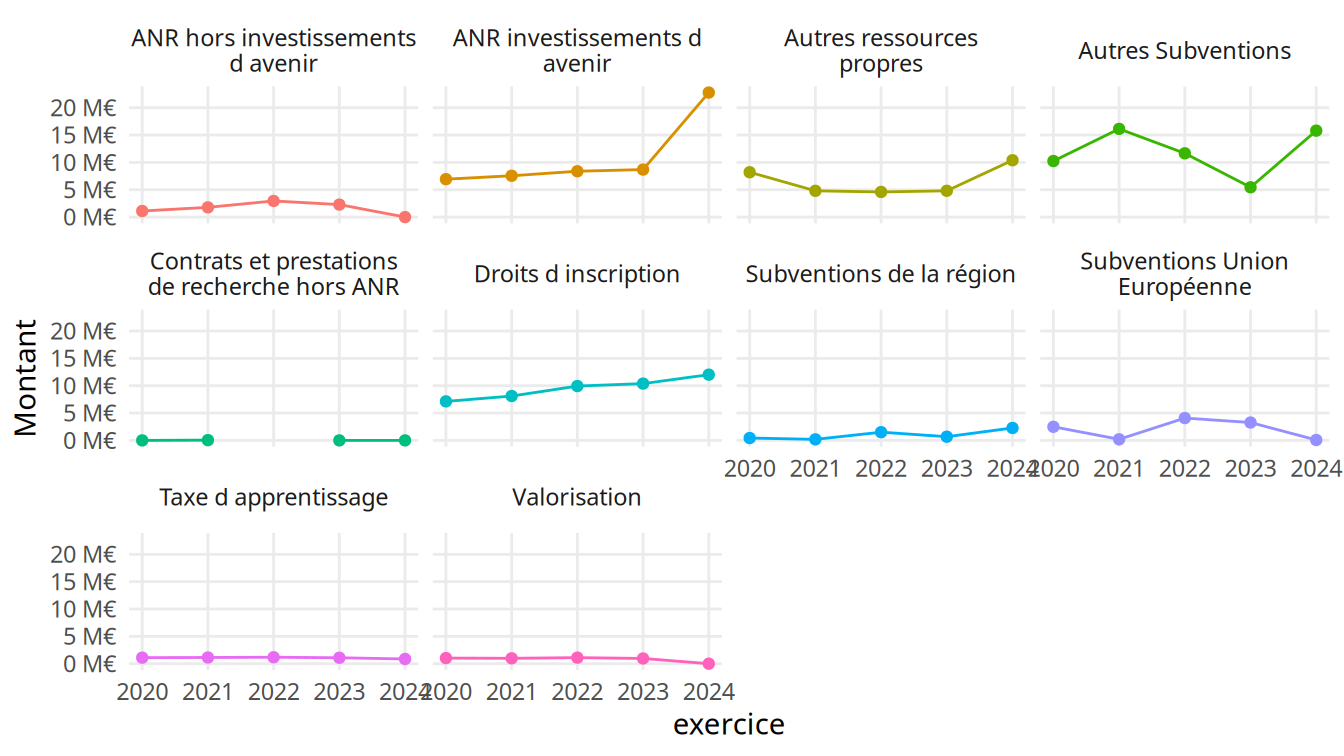
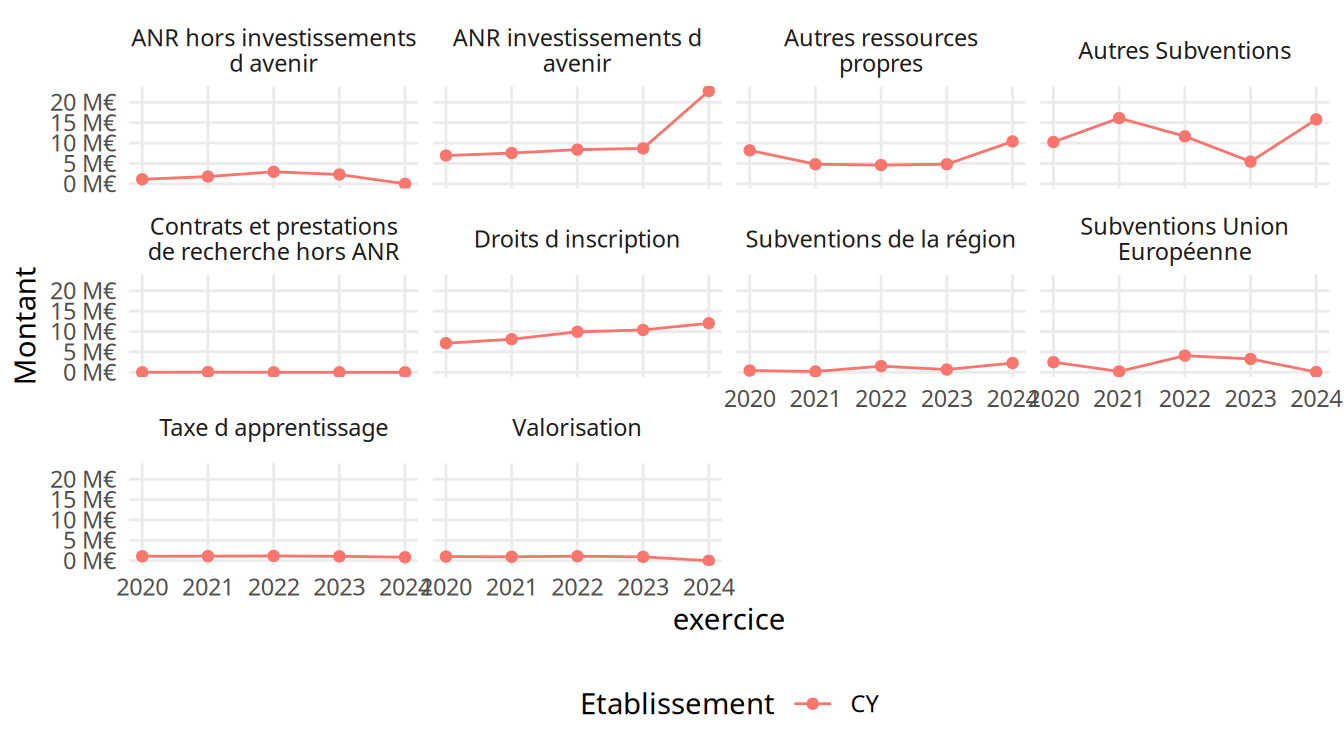
CY

diff --git a/SCSP/CY.md b/SCSP/CY.md
@@ -75,72 +75,113 @@ Données financières CY
 Données financières CY - long
 </summary>
 
-| uai…identifiant | exercice | Acquisitions.d.immobilisations | Besoin.en.fonds.de.roulement | CAF…Produits.encaissables | Charges.externes | Charges.externes…Produits.encaissables | Fonds.de.roulement.net.global | Produits.de.fonctionnement.encaissables | Ressources.propres…Produits.encaissables | rce | vague | Etablissement | commune | academie | region | code.de.la.commune | code.de.l.academie | code.de.la.region | source | id…paysage | CAF…Acquisitions.d.immobilisations | Capacité.d.autofinancement | Charges.de.fonctionnement.décaissables | Charges.de.personnel | Charges.de.personnel…Produits.encaissables | Charges.décaissables…Produits.encaissables | Excédent.Brut.d.Exploitation..EBE. | Fonds.de.roulement.en.jours.de.charges.décaissables | Formation.continue..diplômes.propres.et.VAE | Recettes.propres | Ressources.propres.encaissables | Résultat.net.comptable | Résultat.net.comptable.hors.SIE | Solde.budgétaire | Taux.de.rémunération.des.permanents | Trésorerie | Trésorerie.en.jours.de.charges.décaissables | Indicateur | Montant | Part | PartSCSP |
-|:---|---:|---:|---:|---:|---:|---:|---:|---:|---:|---:|:---|:---|:---|:---|:---|:---|:---|:---|:---|:---|---:|---:|---:|---:|---:|---:|---:|---:|---:|---:|---:|---:|---:|---:|---:|---:|---:|:---|---:|---:|---:|
-| 0952259P | 2024 | 25328992 | -42305709 | -0.4687971 | NA | NA | 9718017 | 221178400 | 35.81494 | 2019 | Vague E | CY Cergy Paris Université | Cergy | Versailles | Île-de-France | 95127 | A25 | R11 | Budget | RS4WF | -4.093641 | -1036878 | 222215278 | 175759517 | 79.46505 | 100.46880 | NA | 15.74368 | 24714518 | 88914648 | 79214905 | -5525166 | -5525166 | -16666127 | NA | 52023726 | 84.28107 | ANR hors investissements d avenir | 0 | 0.0000000 | 0.0000000 |
-| 0952259P | 2024 | 25328992 | -42305709 | -0.4687971 | NA | NA | 9718017 | 221178400 | 35.81494 | 2019 | Vague E | CY Cergy Paris Université | Cergy | Versailles | Île-de-France | 95127 | A25 | R11 | Budget | RS4WF | -4.093641 | -1036878 | 222215278 | 175759517 | 79.46505 | 100.46880 | NA | 15.74368 | 24714518 | 88914648 | 79214905 | -5525166 | -5525166 | -16666127 | NA | 52023726 | 84.28107 | ANR investissements d avenir | 22768839 | 0.1029433 | 0.1603852 |
-| 0952259P | 2024 | 25328992 | -42305709 | -0.4687971 | NA | NA | 9718017 | 221178400 | 35.81494 | 2019 | Vague E | CY Cergy Paris Université | Cergy | Versailles | Île-de-France | 95127 | A25 | R11 | Budget | RS4WF | -4.093641 | -1036878 | 222215278 | 175759517 | 79.46505 | 100.46880 | NA | 15.74368 | 24714518 | 88914648 | 79214905 | -5525166 | -5525166 | -16666127 | NA | 52023726 | 84.28107 | Autres ressources propres | 10393150 | 0.0469899 | 0.0732100 |
-| 0952259P | 2024 | 25328992 | -42305709 | -0.4687971 | NA | NA | 9718017 | 221178400 | 35.81494 | 2019 | Vague E | CY Cergy Paris Université | Cergy | Versailles | Île-de-France | 95127 | A25 | R11 | Budget | RS4WF | -4.093641 | -1036878 | 222215278 | 175759517 | 79.46505 | 100.46880 | NA | 15.74368 | 24714518 | 88914648 | 79214905 | -5525166 | -5525166 | -16666127 | NA | 52023726 | 84.28107 | Autres Subventions | 15804109 | 0.0714541 | 0.1113252 |
-| 0952259P | 2024 | 25328992 | -42305709 | -0.4687971 | NA | NA | 9718017 | 221178400 | 35.81494 | 2019 | Vague E | CY Cergy Paris Université | Cergy | Versailles | Île-de-France | 95127 | A25 | R11 | Budget | RS4WF | -4.093641 | -1036878 | 222215278 | 175759517 | 79.46505 | 100.46880 | NA | 15.74368 | 24714518 | 88914648 | 79214905 | -5525166 | -5525166 | -16666127 | NA | 52023726 | 84.28107 | Contrats et prestations de recherche hors ANR | 0 | 0.0000000 | 0.0000000 |
-| 0952259P | 2024 | 25328992 | -42305709 | -0.4687971 | NA | NA | 9718017 | 221178400 | 35.81494 | 2019 | Vague E | CY Cergy Paris Université | Cergy | Versailles | Île-de-France | 95127 | A25 | R11 | Budget | RS4WF | -4.093641 | -1036878 | 222215278 | 175759517 | 79.46505 | 100.46880 | NA | 15.74368 | 24714518 | 88914648 | 79214905 | -5525166 | -5525166 | -16666127 | NA | 52023726 | 84.28107 | Droits d inscription | 12020419 | 0.0543472 | 0.0846726 |
-| 0952259P | 2024 | 25328992 | -42305709 | -0.4687971 | NA | NA | 9718017 | 221178400 | 35.81494 | 2019 | Vague E | CY Cergy Paris Université | Cergy | Versailles | Île-de-France | 95127 | A25 | R11 | Budget | RS4WF | -4.093641 | -1036878 | 222215278 | 175759517 | 79.46505 | 100.46880 | NA | 15.74368 | 24714518 | 88914648 | 79214905 | -5525166 | -5525166 | -16666127 | NA | 52023726 | 84.28107 | Taxe d apprentissage | 865500 | 0.0039131 | 0.0060966 |
-| 0952259P | 2024 | 25328992 | -42305709 | -0.4687971 | NA | NA | 9718017 | 221178400 | 35.81494 | 2019 | Vague E | CY Cergy Paris Université | Cergy | Versailles | Île-de-France | 95127 | A25 | R11 | Budget | RS4WF | -4.093641 | -1036878 | 222215278 | 175759517 | 79.46505 | 100.46880 | NA | 15.74368 | 24714518 | 88914648 | 79214905 | -5525166 | -5525166 | -16666127 | NA | 52023726 | 84.28107 | Valorisation | 0 | 0.0000000 | 0.0000000 |
-| 0952259P | 2024 | 25328992 | -42305709 | -0.4687971 | NA | NA | 9718017 | 221178400 | 35.81494 | 2019 | Vague E | CY Cergy Paris Université | Cergy | Versailles | Île-de-France | 95127 | A25 | R11 | Budget | RS4WF | -4.093641 | -1036878 | 222215278 | 175759517 | 79.46505 | 100.46880 | NA | 15.74368 | 24714518 | 88914648 | 79214905 | -5525166 | -5525166 | -16666127 | NA | 52023726 | 84.28107 | Subventions Union Européenne | 74583 | 0.0003372 | 0.0005254 |
-| 0952259P | 2024 | 25328992 | -42305709 | -0.4687971 | NA | NA | 9718017 | 221178400 | 35.81494 | 2019 | Vague E | CY Cergy Paris Université | Cergy | Versailles | Île-de-France | 95127 | A25 | R11 | Budget | RS4WF | -4.093641 | -1036878 | 222215278 | 175759517 | 79.46505 | 100.46880 | NA | 15.74368 | 24714518 | 88914648 | 79214905 | -5525166 | -5525166 | -16666127 | NA | 52023726 | 84.28107 | Subventions de la région | 2273530 | 0.0102792 | 0.0160149 |
-| 0952259P | 2021 | 21205931 | -43015057 | 3.8946341 | NA | NA | 27440793 | 178194684 | 25.16947 | 2019 | Vague E | CY Cergy Paris Université | Cergy | Versailles | Île-de-France | 95127 | A25 | R11 | Comptes financiers | RS4WF | 32.726839 | 6940031 | 171254653 | 140202899 | 78.67962 | 96.10537 | NA | 57.68419 | 14728461 | 55672895 | 44850653 | 1329060 | 1329060 | -1255354 | 75.71733 | 70455850 | 148.10754 | ANR hors investissements d avenir | 1781876 | 0.0099996 | 0.0133630 |
-| 0952259P | 2021 | 21205931 | -43015057 | 3.8946341 | NA | NA | 27440793 | 178194684 | 25.16947 | 2019 | Vague E | CY Cergy Paris Université | Cergy | Versailles | Île-de-France | 95127 | A25 | R11 | Comptes financiers | RS4WF | 32.726839 | 6940031 | 171254653 | 140202899 | 78.67962 | 96.10537 | NA | 57.68419 | 14728461 | 55672895 | 44850653 | 1329060 | 1329060 | -1255354 | 75.71733 | 70455850 | 148.10754 | ANR investissements d avenir | 7557662 | 0.0424124 | 0.0566779 |
-| 0952259P | 2021 | 21205931 | -43015057 | 3.8946341 | NA | NA | 27440793 | 178194684 | 25.16947 | 2019 | Vague E | CY Cergy Paris Université | Cergy | Versailles | Île-de-France | 95127 | A25 | R11 | Comptes financiers | RS4WF | 32.726839 | 6940031 | 171254653 | 140202899 | 78.67962 | 96.10537 | NA | 57.68419 | 14728461 | 55672895 | 44850653 | 1329060 | 1329060 | -1255354 | 75.71733 | 70455850 | 148.10754 | Autres ressources propres | 4801756 | 0.0269467 | 0.0360103 |
-| 0952259P | 2021 | 21205931 | -43015057 | 3.8946341 | NA | NA | 27440793 | 178194684 | 25.16947 | 2019 | Vague E | CY Cergy Paris Université | Cergy | Versailles | Île-de-France | 95127 | A25 | R11 | Comptes financiers | RS4WF | 32.726839 | 6940031 | 171254653 | 140202899 | 78.67962 | 96.10537 | NA | 57.68419 | 14728461 | 55672895 | 44850653 | 1329060 | 1329060 | -1255354 | 75.71733 | 70455850 | 148.10754 | Autres Subventions | 16127085 | 0.0905026 | 0.1209434 |
-| 0952259P | 2021 | 21205931 | -43015057 | 3.8946341 | NA | NA | 27440793 | 178194684 | 25.16947 | 2019 | Vague E | CY Cergy Paris Université | Cergy | Versailles | Île-de-France | 95127 | A25 | R11 | Comptes financiers | RS4WF | 32.726839 | 6940031 | 171254653 | 140202899 | 78.67962 | 96.10537 | NA | 57.68419 | 14728461 | 55672895 | 44850653 | 1329060 | 1329060 | -1255354 | 75.71733 | 70455850 | 148.10754 | Contrats et prestations de recherche hors ANR | 48389 | 0.0002716 | 0.0003629 |
-| 0952259P | 2021 | 21205931 | -43015057 | 3.8946341 | NA | NA | 27440793 | 178194684 | 25.16947 | 2019 | Vague E | CY Cergy Paris Université | Cergy | Versailles | Île-de-France | 95127 | A25 | R11 | Comptes financiers | RS4WF | 32.726839 | 6940031 | 171254653 | 140202899 | 78.67962 | 96.10537 | NA | 57.68419 | 14728461 | 55672895 | 44850653 | 1329060 | 1329060 | -1255354 | 75.71733 | 70455850 | 148.10754 | Droits d inscription | 8113151 | 0.0455297 | 0.0608438 |
-| 0952259P | 2021 | 21205931 | -43015057 | 3.8946341 | NA | NA | 27440793 | 178194684 | 25.16947 | 2019 | Vague E | CY Cergy Paris Université | Cergy | Versailles | Île-de-France | 95127 | A25 | R11 | Comptes financiers | RS4WF | 32.726839 | 6940031 | 171254653 | 140202899 | 78.67962 | 96.10537 | NA | 57.68419 | 14728461 | 55672895 | 44850653 | 1329060 | 1329060 | -1255354 | 75.71733 | 70455850 | 148.10754 | Taxe d apprentissage | 1135882 | 0.0063744 | 0.0085184 |
-| 0952259P | 2021 | 21205931 | -43015057 | 3.8946341 | NA | NA | 27440793 | 178194684 | 25.16947 | 2019 | Vague E | CY Cergy Paris Université | Cergy | Versailles | Île-de-France | 95127 | A25 | R11 | Comptes financiers | RS4WF | 32.726839 | 6940031 | 171254653 | 140202899 | 78.67962 | 96.10537 | NA | 57.68419 | 14728461 | 55672895 | 44850653 | 1329060 | 1329060 | -1255354 | 75.71733 | 70455850 | 148.10754 | Valorisation | 986033 | 0.0055335 | 0.0073947 |
-| 0952259P | 2021 | 21205931 | -43015057 | 3.8946341 | NA | NA | 27440793 | 178194684 | 25.16947 | 2019 | Vague E | CY Cergy Paris Université | Cergy | Versailles | Île-de-France | 95127 | A25 | R11 | Comptes financiers | RS4WF | 32.726839 | 6940031 | 171254653 | 140202899 | 78.67962 | 96.10537 | NA | 57.68419 | 14728461 | 55672895 | 44850653 | 1329060 | 1329060 | -1255354 | 75.71733 | 70455850 | 148.10754 | Subventions Union Européenne | 202079 | 0.0011340 | 0.0015155 |
-| 0952259P | 2021 | 21205931 | -43015057 | 3.8946341 | NA | NA | 27440793 | 178194684 | 25.16947 | 2019 | Vague E | CY Cergy Paris Université | Cergy | Versailles | Île-de-France | 95127 | A25 | R11 | Comptes financiers | RS4WF | 32.726839 | 6940031 | 171254653 | 140202899 | 78.67962 | 96.10537 | NA | 57.68419 | 14728461 | 55672895 | 44850653 | 1329060 | 1329060 | -1255354 | 75.71733 | 70455850 | 148.10754 | Subventions de la région | 190521 | 0.0010692 | 0.0014288 |
-| 0952259P | 2022 | 319325442 | -46852394 | 5.3554829 | NA | NA | 32166255 | 192251235 | 28.76141 | 2019 | Vague E | CY Cergy Paris Université | Cergy | Versailles | Île-de-France | 95127 | A25 | R11 | Comptes financiers | RS4WF | 3.224291 | 10295982 | 181955254 | 148067783 | 77.01786 | 94.64452 | NA | 63.64121 | 19601700 | 64989539 | 55294159 | 4529596 | 4529596 | 5216814 | 73.67705 | 79018649 | 156.33906 | ANR hors investissements d avenir | 2948238 | 0.0153353 | 0.0215267 |
-| 0952259P | 2022 | 319325442 | -46852394 | 5.3554829 | NA | NA | 32166255 | 192251235 | 28.76141 | 2019 | Vague E | CY Cergy Paris Université | Cergy | Versailles | Île-de-France | 95127 | A25 | R11 | Comptes financiers | RS4WF | 3.224291 | 10295982 | 181955254 | 148067783 | 77.01786 | 94.64452 | NA | 63.64121 | 19601700 | 64989539 | 55294159 | 4529596 | 4529596 | 5216814 | 73.67705 | 79018649 | 156.33906 | ANR investissements d avenir | 8382829 | 0.0436035 | 0.0612077 |
-| 0952259P | 2022 | 319325442 | -46852394 | 5.3554829 | NA | NA | 32166255 | 192251235 | 28.76141 | 2019 | Vague E | CY Cergy Paris Université | Cergy | Versailles | Île-de-France | 95127 | A25 | R11 | Comptes financiers | RS4WF | 3.224291 | 10295982 | 181955254 | 148067783 | 77.01786 | 94.64452 | NA | 63.64121 | 19601700 | 64989539 | 55294159 | 4529596 | 4529596 | 5216814 | 73.67705 | 79018649 | 156.33906 | Autres ressources propres | 4597552 | 0.0239143 | 0.0335693 |
-| 0952259P | 2022 | 319325442 | -46852394 | 5.3554829 | NA | NA | 32166255 | 192251235 | 28.76141 | 2019 | Vague E | CY Cergy Paris Université | Cergy | Versailles | Île-de-France | 95127 | A25 | R11 | Comptes financiers | RS4WF | 3.224291 | 10295982 | 181955254 | 148067783 | 77.01786 | 94.64452 | NA | 63.64121 | 19601700 | 64989539 | 55294159 | 4529596 | 4529596 | 5216814 | 73.67705 | 79018649 | 156.33906 | Autres Subventions | 11654868 | 0.0606231 | 0.0850987 |
-| 0952259P | 2022 | 319325442 | -46852394 | 5.3554829 | NA | NA | 32166255 | 192251235 | 28.76141 | 2019 | Vague E | CY Cergy Paris Université | Cergy | Versailles | Île-de-France | 95127 | A25 | R11 | Comptes financiers | RS4WF | 3.224291 | 10295982 | 181955254 | 148067783 | 77.01786 | 94.64452 | NA | 63.64121 | 19601700 | 64989539 | 55294159 | 4529596 | 4529596 | 5216814 | 73.67705 | 79018649 | 156.33906 | Contrats et prestations de recherche hors ANR | NA | NA | NA |
-| 0952259P | 2022 | 319325442 | -46852394 | 5.3554829 | NA | NA | 32166255 | 192251235 | 28.76141 | 2019 | Vague E | CY Cergy Paris Université | Cergy | Versailles | Île-de-France | 95127 | A25 | R11 | Comptes financiers | RS4WF | 3.224291 | 10295982 | 181955254 | 148067783 | 77.01786 | 94.64452 | NA | 63.64121 | 19601700 | 64989539 | 55294159 | 4529596 | 4529596 | 5216814 | 73.67705 | 79018649 | 156.33906 | Droits d inscription | 9932140 | 0.0516623 | 0.0725201 |
-| 0952259P | 2022 | 319325442 | -46852394 | 5.3554829 | NA | NA | 32166255 | 192251235 | 28.76141 | 2019 | Vague E | CY Cergy Paris Université | Cergy | Versailles | Île-de-France | 95127 | A25 | R11 | Comptes financiers | RS4WF | 3.224291 | 10295982 | 181955254 | 148067783 | 77.01786 | 94.64452 | NA | 63.64121 | 19601700 | 64989539 | 55294159 | 4529596 | 4529596 | 5216814 | 73.67705 | 79018649 | 156.33906 | Taxe d apprentissage | 1180784 | 0.0061419 | 0.0086216 |
-| 0952259P | 2022 | 319325442 | -46852394 | 5.3554829 | NA | NA | 32166255 | 192251235 | 28.76141 | 2019 | Vague E | CY Cergy Paris Université | Cergy | Versailles | Île-de-France | 95127 | A25 | R11 | Comptes financiers | RS4WF | 3.224291 | 10295982 | 181955254 | 148067783 | 77.01786 | 94.64452 | NA | 63.64121 | 19601700 | 64989539 | 55294159 | 4529596 | 4529596 | 5216814 | 73.67705 | 79018649 | 156.33906 | Valorisation | 1108686 | 0.0057669 | 0.0080951 |
-| 0952259P | 2022 | 319325442 | -46852394 | 5.3554829 | NA | NA | 32166255 | 192251235 | 28.76141 | 2019 | Vague E | CY Cergy Paris Université | Cergy | Versailles | Île-de-France | 95127 | A25 | R11 | Comptes financiers | RS4WF | 3.224291 | 10295982 | 181955254 | 148067783 | 77.01786 | 94.64452 | NA | 63.64121 | 19601700 | 64989539 | 55294159 | 4529596 | 4529596 | 5216814 | 73.67705 | 79018649 | 156.33906 | Subventions Union Européenne | 4081568 | 0.0212304 | 0.0298018 |
-| 0952259P | 2022 | 319325442 | -46852394 | 5.3554829 | NA | NA | 32166255 | 192251235 | 28.76141 | 2019 | Vague E | CY Cergy Paris Université | Cergy | Versailles | Île-de-France | 95127 | A25 | R11 | Comptes financiers | RS4WF | 3.224291 | 10295982 | 181955254 | 148067783 | 77.01786 | 94.64452 | NA | 63.64121 | 19601700 | 64989539 | 55294159 | 4529596 | 4529596 | 5216814 | 73.67705 | 79018649 | 156.33906 | Subventions de la région | 1501174 | 0.0078084 | 0.0109609 |
-| 0952259P | 2020 | 16323533 | -40809526 | 5.1681979 | NA | NA | 29799612 | 167601090 | 22.81666 | 2019 | Vague E | CY Cergy Paris Université | Cergy | Versailles | Île-de-France | 95127 | A25 | R11 | Comptes financiers | RS4WF | 53.064223 | 8661956 | 158939134 | 135957661 | 81.11980 | 94.83180 | NA | 67.49666 | 11431218 | 50107382 | 38240976 | 3420935 | 3420935 | 12866727 | 78.20000 | 70609138 | 159.93097 | ANR hors investissements d avenir | 1113510 | 0.0066438 | 0.0086078 |
-| 0952259P | 2020 | 16323533 | -40809526 | 5.1681979 | NA | NA | 29799612 | 167601090 | 22.81666 | 2019 | Vague E | CY Cergy Paris Université | Cergy | Versailles | Île-de-France | 95127 | A25 | R11 | Comptes financiers | RS4WF | 53.064223 | 8661956 | 158939134 | 135957661 | 81.11980 | 94.83180 | NA | 67.49666 | 11431218 | 50107382 | 38240976 | 3420935 | 3420935 | 12866727 | 78.20000 | 70609138 | 159.93097 | ANR investissements d avenir | 6931586 | 0.0413576 | 0.0535836 |
-| 0952259P | 2020 | 16323533 | -40809526 | 5.1681979 | NA | NA | 29799612 | 167601090 | 22.81666 | 2019 | Vague E | CY Cergy Paris Université | Cergy | Versailles | Île-de-France | 95127 | A25 | R11 | Comptes financiers | RS4WF | 53.064223 | 8661956 | 158939134 | 135957661 | 81.11980 | 94.83180 | NA | 67.49666 | 11431218 | 50107382 | 38240976 | 3420935 | 3420935 | 12866727 | 78.20000 | 70609138 | 159.93097 | Autres ressources propres | 8199653 | 0.0489236 | 0.0633863 |
-| 0952259P | 2020 | 16323533 | -40809526 | 5.1681979 | NA | NA | 29799612 | 167601090 | 22.81666 | 2019 | Vague E | CY Cergy Paris Université | Cergy | Versailles | Île-de-France | 95127 | A25 | R11 | Comptes financiers | RS4WF | 53.064223 | 8661956 | 158939134 | 135957661 | 81.11980 | 94.83180 | NA | 67.49666 | 11431218 | 50107382 | 38240976 | 3420935 | 3420935 | 12866727 | 78.20000 | 70609138 | 159.93097 | Autres Subventions | 10248683 | 0.0611493 | 0.0792260 |
-| 0952259P | 2020 | 16323533 | -40809526 | 5.1681979 | NA | NA | 29799612 | 167601090 | 22.81666 | 2019 | Vague E | CY Cergy Paris Université | Cergy | Versailles | Île-de-France | 95127 | A25 | R11 | Comptes financiers | RS4WF | 53.064223 | 8661956 | 158939134 | 135957661 | 81.11980 | 94.83180 | NA | 67.49666 | 11431218 | 50107382 | 38240976 | 3420935 | 3420935 | 12866727 | 78.20000 | 70609138 | 159.93097 | Contrats et prestations de recherche hors ANR | 0 | 0.0000000 | 0.0000000 |
-| 0952259P | 2020 | 16323533 | -40809526 | 5.1681979 | NA | NA | 29799612 | 167601090 | 22.81666 | 2019 | Vague E | CY Cergy Paris Université | Cergy | Versailles | Île-de-France | 95127 | A25 | R11 | Comptes financiers | RS4WF | 53.064223 | 8661956 | 158939134 | 135957661 | 81.11980 | 94.83180 | NA | 67.49666 | 11431218 | 50107382 | 38240976 | 3420935 | 3420935 | 12866727 | 78.20000 | 70609138 | 159.93097 | Droits d inscription | 7130416 | 0.0425440 | 0.0551207 |
-| 0952259P | 2020 | 16323533 | -40809526 | 5.1681979 | NA | NA | 29799612 | 167601090 | 22.81666 | 2019 | Vague E | CY Cergy Paris Université | Cergy | Versailles | Île-de-France | 95127 | A25 | R11 | Comptes financiers | RS4WF | 53.064223 | 8661956 | 158939134 | 135957661 | 81.11980 | 94.83180 | NA | 67.49666 | 11431218 | 50107382 | 38240976 | 3420935 | 3420935 | 12866727 | 78.20000 | 70609138 | 159.93097 | Taxe d apprentissage | 1106878 | 0.0066042 | 0.0085566 |
-| 0952259P | 2020 | 16323533 | -40809526 | 5.1681979 | NA | NA | 29799612 | 167601090 | 22.81666 | 2019 | Vague E | CY Cergy Paris Université | Cergy | Versailles | Île-de-France | 95127 | A25 | R11 | Comptes financiers | RS4WF | 53.064223 | 8661956 | 158939134 | 135957661 | 81.11980 | 94.83180 | NA | 67.49666 | 11431218 | 50107382 | 38240976 | 3420935 | 3420935 | 12866727 | 78.20000 | 70609138 | 159.93097 | Valorisation | 1028704 | 0.0061378 | 0.0079523 |
-| 0952259P | 2020 | 16323533 | -40809526 | 5.1681979 | NA | NA | 29799612 | 167601090 | 22.81666 | 2019 | Vague E | CY Cergy Paris Université | Cergy | Versailles | Île-de-France | 95127 | A25 | R11 | Comptes financiers | RS4WF | 53.064223 | 8661956 | 158939134 | 135957661 | 81.11980 | 94.83180 | NA | 67.49666 | 11431218 | 50107382 | 38240976 | 3420935 | 3420935 | 12866727 | 78.20000 | 70609138 | 159.93097 | Subventions Union Européenne | 2483096 | 0.0148155 | 0.0191952 |
-| 0952259P | 2020 | 16323533 | -40809526 | 5.1681979 | NA | NA | 29799612 | 167601090 | 22.81666 | 2019 | Vague E | CY Cergy Paris Université | Cergy | Versailles | Île-de-France | 95127 | A25 | R11 | Comptes financiers | RS4WF | 53.064223 | 8661956 | 158939134 | 135957661 | 81.11980 | 94.83180 | NA | 67.49666 | 11431218 | 50107382 | 38240976 | 3420935 | 3420935 | 12866727 | 78.20000 | 70609138 | 159.93097 | Subventions de la région | 433638 | 0.0025873 | 0.0033522 |
-| 0952259P | 2023 | 15112571 | -53969016 | 2.4385213 | NA | NA | 29770518 | 202226036 | 28.65298 | 2019 | Vague E | CY Cergy Paris Université | Cergy | Versailles | Île-de-France | 95127 | A25 | R11 | Comptes financiers | RS4WF | 32.630616 | 4931325 | 197294711 | 157501532 | 77.88390 | 97.56148 | NA | 54.32171 | 21338683 | 58944743 | 57943782 | -60235 | -60235 | -4247541 | 71.94045 | 83739534 | 152.79797 | ANR hors investissements d avenir | 2284730 | 0.0112979 | 0.0158351 |
-| 0952259P | 2023 | 15112571 | -53969016 | 2.4385213 | NA | NA | 29770518 | 202226036 | 28.65298 | 2019 | Vague E | CY Cergy Paris Université | Cergy | Versailles | Île-de-France | 95127 | A25 | R11 | Comptes financiers | RS4WF | 32.630616 | 4931325 | 197294711 | 157501532 | 77.88390 | 97.56148 | NA | 54.32171 | 21338683 | 58944743 | 57943782 | -60235 | -60235 | -4247541 | 71.94045 | 83739534 | 152.79797 | ANR investissements d avenir | 8686068 | 0.0429523 | 0.0602019 |
-| 0952259P | 2023 | 15112571 | -53969016 | 2.4385213 | NA | NA | 29770518 | 202226036 | 28.65298 | 2019 | Vague E | CY Cergy Paris Université | Cergy | Versailles | Île-de-France | 95127 | A25 | R11 | Comptes financiers | RS4WF | 32.630616 | 4931325 | 197294711 | 157501532 | 77.88390 | 97.56148 | NA | 54.32171 | 21338683 | 58944743 | 57943782 | -60235 | -60235 | -4247541 | 71.94045 | 83739534 | 152.79797 | Autres ressources propres | 4806595 | 0.0237684 | 0.0333138 |
-| 0952259P | 2023 | 15112571 | -53969016 | 2.4385213 | NA | NA | 29770518 | 202226036 | 28.65298 | 2019 | Vague E | CY Cergy Paris Université | Cergy | Versailles | Île-de-France | 95127 | A25 | R11 | Comptes financiers | RS4WF | 32.630616 | 4931325 | 197294711 | 157501532 | 77.88390 | 97.56148 | NA | 54.32171 | 21338683 | 58944743 | 57943782 | -60235 | -60235 | -4247541 | 71.94045 | 83739534 | 152.79797 | Autres Subventions | 5453246 | 0.0269661 | 0.0377957 |
-| 0952259P | 2023 | 15112571 | -53969016 | 2.4385213 | NA | NA | 29770518 | 202226036 | 28.65298 | 2019 | Vague E | CY Cergy Paris Université | Cergy | Versailles | Île-de-France | 95127 | A25 | R11 | Comptes financiers | RS4WF | 32.630616 | 4931325 | 197294711 | 157501532 | 77.88390 | 97.56148 | NA | 54.32171 | 21338683 | 58944743 | 57943782 | -60235 | -60235 | -4247541 | 71.94045 | 83739534 | 152.79797 | Contrats et prestations de recherche hors ANR | 0 | 0.0000000 | 0.0000000 |
-| 0952259P | 2023 | 15112571 | -53969016 | 2.4385213 | NA | NA | 29770518 | 202226036 | 28.65298 | 2019 | Vague E | CY Cergy Paris Université | Cergy | Versailles | Île-de-France | 95127 | A25 | R11 | Comptes financiers | RS4WF | 32.630616 | 4931325 | 197294711 | 157501532 | 77.88390 | 97.56148 | NA | 54.32171 | 21338683 | 58944743 | 57943782 | -60235 | -60235 | -4247541 | 71.94045 | 83739534 | 152.79797 | Droits d inscription | 10384666 | 0.0513518 | 0.0719747 |
-| 0952259P | 2023 | 15112571 | -53969016 | 2.4385213 | NA | NA | 29770518 | 202226036 | 28.65298 | 2019 | Vague E | CY Cergy Paris Université | Cergy | Versailles | Île-de-France | 95127 | A25 | R11 | Comptes financiers | RS4WF | 32.630616 | 4931325 | 197294711 | 157501532 | 77.88390 | 97.56148 | NA | 54.32171 | 21338683 | 58944743 | 57943782 | -60235 | -60235 | -4247541 | 71.94045 | 83739534 | 152.79797 | Taxe d apprentissage | 1087727 | 0.0053788 | 0.0075389 |
-| 0952259P | 2023 | 15112571 | -53969016 | 2.4385213 | NA | NA | 29770518 | 202226036 | 28.65298 | 2019 | Vague E | CY Cergy Paris Université | Cergy | Versailles | Île-de-France | 95127 | A25 | R11 | Comptes financiers | RS4WF | 32.630616 | 4931325 | 197294711 | 157501532 | 77.88390 | 97.56148 | NA | 54.32171 | 21338683 | 58944743 | 57943782 | -60235 | -60235 | -4247541 | 71.94045 | 83739534 | 152.79797 | Valorisation | 959131 | 0.0047429 | 0.0066476 |
-| 0952259P | 2023 | 15112571 | -53969016 | 2.4385213 | NA | NA | 29770518 | 202226036 | 28.65298 | 2019 | Vague E | CY Cergy Paris Université | Cergy | Versailles | Île-de-France | 95127 | A25 | R11 | Comptes financiers | RS4WF | 32.630616 | 4931325 | 197294711 | 157501532 | 77.88390 | 97.56148 | NA | 54.32171 | 21338683 | 58944743 | 57943782 | -60235 | -60235 | -4247541 | 71.94045 | 83739534 | 152.79797 | Subventions Union Européenne | 3269194 | 0.0161660 | 0.0226583 |
-| 0952259P | 2023 | 15112571 | -53969016 | 2.4385213 | NA | NA | 29770518 | 202226036 | 28.65298 | 2019 | Vague E | CY Cergy Paris Université | Cergy | Versailles | Île-de-France | 95127 | A25 | R11 | Comptes financiers | RS4WF | 32.630616 | 4931325 | 197294711 | 157501532 | 77.88390 | 97.56148 | NA | 54.32171 | 21338683 | 58944743 | 57943782 | -60235 | -60235 | -4247541 | 71.94045 | 83739534 | 152.79797 | Subventions de la région | 674703 | 0.0033364 | 0.0046763 |
+| exercice | Etablissement | Indicateur | Montant | PFE | SCSP | Part | PartSCSP |
+|---:|:---|:---|---:|---:|---:|---:|---:|
+| 2020 | Autres | ANR hors investissements d avenir | 251746428 | 16025342433 | 12814799968 | 0.0157093 | 0.0196450 |
+| 2020 | Autres | ANR investissements d avenir | 453933152 | 16025342433 | 12814799968 | 0.0283260 | 0.0354226 |
+| 2020 | Autres | Autres ressources propres | 728427869 | 16025342433 | 12814799968 | 0.0454547 | 0.0568427 |
+| 2020 | Autres | Autres Subventions | 743407193 | 16025342433 | 12814799968 | 0.0463895 | 0.0580116 |
+| 2020 | Autres | Contrats et prestations de recherche hors ANR | 106584323 | 16025342433 | 12814799968 | 0.0066510 | 0.0083173 |
+| 2020 | Autres | Droits d inscription | 309248350 | 16025342433 | 12814799968 | 0.0192975 | 0.0241321 |
+| 2020 | Autres | Taxe d apprentissage | 78204201 | 16025342433 | 12814799968 | 0.0048800 | 0.0061026 |
+| 2020 | Autres | Valorisation | 57764633 | 16025342433 | 12814799968 | 0.0036046 | 0.0045076 |
+| 2020 | Autres | Subventions Union Européenne | 256975872 | 16025342433 | 12814799968 | 0.0160356 | 0.0200531 |
+| 2020 | Autres | Subventions de la région | 267453946 | 16025342433 | 12814799968 | 0.0166894 | 0.0208707 |
+| 2021 | Autres | ANR hors investissements d avenir | 301196848 | 16893730433 | 13141770666 | 0.0178289 | 0.0229190 |
+| 2021 | Autres | ANR investissements d avenir | 537491538 | 16893730433 | 13141770666 | 0.0318160 | 0.0408995 |
+| 2021 | Autres | Autres ressources propres | 799374125 | 16893730433 | 13141770666 | 0.0473178 | 0.0608270 |
+| 2021 | Autres | Autres Subventions | 945865309 | 16893730433 | 13141770666 | 0.0559891 | 0.0719740 |
+| 2021 | Autres | Contrats et prestations de recherche hors ANR | 116423610 | 16893730433 | 13141770666 | 0.0068915 | 0.0088591 |
+| 2021 | Autres | Droits d inscription | 342041792 | 16893730433 | 13141770666 | 0.0202467 | 0.0260271 |
+| 2021 | Autres | Taxe d apprentissage | 83859590 | 16893730433 | 13141770666 | 0.0049639 | 0.0063811 |
+| 2021 | Autres | Valorisation | 71098182 | 16893730433 | 13141770666 | 0.0042086 | 0.0054101 |
+| 2021 | Autres | Subventions Union Européenne | 256083557 | 16893730433 | 13141770666 | 0.0151585 | 0.0194862 |
+| 2021 | Autres | Subventions de la région | 281799175 | 16893730433 | 13141770666 | 0.0166807 | 0.0214430 |
+| 2024 | Autres | ANR hors investissements d avenir | 372424993 | 19220812076 | 14013035091 | 0.0193761 | 0.0265770 |
+| 2024 | Autres | ANR investissements d avenir | 807218106 | 19220812076 | 14013035091 | 0.0419971 | 0.0576048 |
+| 2024 | Autres | Autres ressources propres | 1204629254 | 19220812076 | 14013035091 | 0.0626732 | 0.0859649 |
+| 2024 | Autres | Autres Subventions | 1197878342 | 19220812076 | 14013035091 | 0.0623219 | 0.0854831 |
+| 2024 | Autres | Contrats et prestations de recherche hors ANR | 126960892 | 19220812076 | 14013035091 | 0.0066054 | 0.0090602 |
+| 2024 | Autres | Droits d inscription | 380941840 | 19220812076 | 14013035091 | 0.0198192 | 0.0271848 |
+| 2024 | Autres | Taxe d apprentissage | 83695538 | 19220812076 | 14013035091 | 0.0043544 | 0.0059727 |
+| 2024 | Autres | Valorisation | 58203098 | 19220812076 | 14013035091 | 0.0030281 | 0.0041535 |
+| 2024 | Autres | Subventions Union Européenne | 306825199 | 19220812076 | 14013035091 | 0.0159632 | 0.0218957 |
+| 2024 | Autres | Subventions de la région | 578876323 | 19220812076 | 14013035091 | 0.0301172 | 0.0413098 |
+| 2022 | Autres | ANR hors investissements d avenir | 323084999 | 17655380737 | 13527212791 | 0.0182995 | 0.0238841 |
+| 2022 | Autres | ANR investissements d avenir | 725132574 | 17655380737 | 13527212791 | 0.0410715 | 0.0536055 |
+| 2022 | Autres | Autres ressources propres | 869624865 | 17655380737 | 13527212791 | 0.0492555 | 0.0642871 |
+| 2022 | Autres | Autres Subventions | 1205684805 | 17655380737 | 13527212791 | 0.0682899 | 0.0891303 |
+| 2022 | Autres | Contrats et prestations de recherche hors ANR | 115512371 | 17655380737 | 13527212791 | 0.0065426 | 0.0085393 |
+| 2022 | Autres | Droits d inscription | 354523711 | 17655380737 | 13527212791 | 0.0200802 | 0.0262082 |
+| 2022 | Autres | Taxe d apprentissage | 93761701 | 17655380737 | 13527212791 | 0.0053107 | 0.0069313 |
+| 2022 | Autres | Valorisation | 77496728 | 17655380737 | 13527212791 | 0.0043894 | 0.0057290 |
+| 2022 | Autres | Subventions Union Européenne | 331650608 | 17655380737 | 13527212791 | 0.0187847 | 0.0245173 |
+| 2022 | Autres | Subventions de la région | 345124720 | 17655380737 | 13527212791 | 0.0195478 | 0.0255134 |
+| 2023 | Autres | ANR hors investissements d avenir | 352622887 | 18598454877 | 14092891577 | 0.0189598 | 0.0250213 |
+| 2023 | Autres | ANR investissements d avenir | 771974986 | 18598454877 | 14092891577 | 0.0415075 | 0.0547776 |
+| 2023 | Autres | Autres ressources propres | 1120377234 | 18598454877 | 14092891577 | 0.0602403 | 0.0794995 |
+| 2023 | Autres | Autres Subventions | 1248785830 | 18598454877 | 14092891577 | 0.0671446 | 0.0886110 |
+| 2023 | Autres | Contrats et prestations de recherche hors ANR | 103505436 | 18598454877 | 14092891577 | 0.0055653 | 0.0073445 |
+| 2023 | Autres | Droits d inscription | 364556626 | 18598454877 | 14092891577 | 0.0196014 | 0.0258681 |
+| 2023 | Autres | Taxe d apprentissage | 86022237 | 18598454877 | 14092891577 | 0.0046252 | 0.0061039 |
+| 2023 | Autres | Valorisation | 84017681 | 18598454877 | 14092891577 | 0.0045175 | 0.0059617 |
+| 2023 | Autres | Subventions Union Européenne | 383842603 | 18598454877 | 14092891577 | 0.0206384 | 0.0272366 |
+| 2023 | Autres | Subventions de la région | 350500495 | 18598454877 | 14092891577 | 0.0188457 | 0.0248707 |
+| 2024 | CY | ANR hors investissements d avenir | 0 | 221178400 | 141963495 | 0.0000000 | 0.0000000 |
+| 2024 | CY | ANR investissements d avenir | 22768839 | 221178400 | 141963495 | 0.1029433 | 0.1603852 |
+| 2024 | CY | Autres ressources propres | 10393150 | 221178400 | 141963495 | 0.0469899 | 0.0732100 |
+| 2024 | CY | Autres Subventions | 15804109 | 221178400 | 141963495 | 0.0714541 | 0.1113252 |
+| 2024 | CY | Contrats et prestations de recherche hors ANR | 0 | 221178400 | 141963495 | 0.0000000 | 0.0000000 |
+| 2024 | CY | Droits d inscription | 12020419 | 221178400 | 141963495 | 0.0543472 | 0.0846726 |
+| 2024 | CY | Taxe d apprentissage | 865500 | 221178400 | 141963495 | 0.0039131 | 0.0060966 |
+| 2024 | CY | Valorisation | 0 | 221178400 | 141963495 | 0.0000000 | 0.0000000 |
+| 2024 | CY | Subventions Union Européenne | 74583 | 221178400 | 141963495 | 0.0003372 | 0.0005254 |
+| 2024 | CY | Subventions de la région | 2273530 | 221178400 | 141963495 | 0.0102792 | 0.0160149 |
+| 2021 | CY | ANR hors investissements d avenir | 1781876 | 178194684 | 133344031 | 0.0099996 | 0.0133630 |
+| 2021 | CY | ANR investissements d avenir | 7557662 | 178194684 | 133344031 | 0.0424124 | 0.0566779 |
+| 2021 | CY | Autres ressources propres | 4801756 | 178194684 | 133344031 | 0.0269467 | 0.0360103 |
+| 2021 | CY | Autres Subventions | 16127085 | 178194684 | 133344031 | 0.0905026 | 0.1209434 |
+| 2021 | CY | Contrats et prestations de recherche hors ANR | 48389 | 178194684 | 133344031 | 0.0002716 | 0.0003629 |
+| 2021 | CY | Droits d inscription | 8113151 | 178194684 | 133344031 | 0.0455297 | 0.0608438 |
+| 2021 | CY | Taxe d apprentissage | 1135882 | 178194684 | 133344031 | 0.0063744 | 0.0085184 |
+| 2021 | CY | Valorisation | 986033 | 178194684 | 133344031 | 0.0055335 | 0.0073947 |
+| 2021 | CY | Subventions Union Européenne | 202079 | 178194684 | 133344031 | 0.0011340 | 0.0015155 |
+| 2021 | CY | Subventions de la région | 190521 | 178194684 | 133344031 | 0.0010692 | 0.0014288 |
+| 2022 | CY | ANR hors investissements d avenir | 2948238 | 192251235 | 136957076 | 0.0153353 | 0.0215267 |
+| 2022 | CY | ANR investissements d avenir | 8382829 | 192251235 | 136957076 | 0.0436035 | 0.0612077 |
+| 2022 | CY | Autres ressources propres | 4597552 | 192251235 | 136957076 | 0.0239143 | 0.0335693 |
+| 2022 | CY | Autres Subventions | 11654868 | 192251235 | 136957076 | 0.0606231 | 0.0850987 |
+| 2022 | CY | Contrats et prestations de recherche hors ANR | 0 | 192251235 | 136957076 | 0.0000000 | 0.0000000 |
+| 2022 | CY | Droits d inscription | 9932140 | 192251235 | 136957076 | 0.0516623 | 0.0725201 |
+| 2022 | CY | Taxe d apprentissage | 1180784 | 192251235 | 136957076 | 0.0061419 | 0.0086216 |
+| 2022 | CY | Valorisation | 1108686 | 192251235 | 136957076 | 0.0057669 | 0.0080951 |
+| 2022 | CY | Subventions Union Européenne | 4081568 | 192251235 | 136957076 | 0.0212304 | 0.0298018 |
+| 2022 | CY | Subventions de la région | 1501174 | 192251235 | 136957076 | 0.0078084 | 0.0109609 |
+| 2020 | CY | ANR hors investissements d avenir | 1113510 | 167601090 | 129360114 | 0.0066438 | 0.0086078 |
+| 2020 | CY | ANR investissements d avenir | 6931586 | 167601090 | 129360114 | 0.0413576 | 0.0535836 |
+| 2020 | CY | Autres ressources propres | 8199653 | 167601090 | 129360114 | 0.0489236 | 0.0633863 |
+| 2020 | CY | Autres Subventions | 10248683 | 167601090 | 129360114 | 0.0611493 | 0.0792260 |
+| 2020 | CY | Contrats et prestations de recherche hors ANR | 0 | 167601090 | 129360114 | 0.0000000 | 0.0000000 |
+| 2020 | CY | Droits d inscription | 7130416 | 167601090 | 129360114 | 0.0425440 | 0.0551207 |
+| 2020 | CY | Taxe d apprentissage | 1106878 | 167601090 | 129360114 | 0.0066042 | 0.0085566 |
+| 2020 | CY | Valorisation | 1028704 | 167601090 | 129360114 | 0.0061378 | 0.0079523 |
+| 2020 | CY | Subventions Union Européenne | 2483096 | 167601090 | 129360114 | 0.0148155 | 0.0191952 |
+| 2020 | CY | Subventions de la région | 433638 | 167601090 | 129360114 | 0.0025873 | 0.0033522 |
+| 2023 | CY | ANR hors investissements d avenir | 2284730 | 202226036 | 144282254 | 0.0112979 | 0.0158351 |
+| 2023 | CY | ANR investissements d avenir | 8686068 | 202226036 | 144282254 | 0.0429523 | 0.0602019 |
+| 2023 | CY | Autres ressources propres | 4806595 | 202226036 | 144282254 | 0.0237684 | 0.0333138 |
+| 2023 | CY | Autres Subventions | 5453246 | 202226036 | 144282254 | 0.0269661 | 0.0377957 |
+| 2023 | CY | Contrats et prestations de recherche hors ANR | 0 | 202226036 | 144282254 | 0.0000000 | 0.0000000 |
+| 2023 | CY | Droits d inscription | 10384666 | 202226036 | 144282254 | 0.0513518 | 0.0719747 |
+| 2023 | CY | Taxe d apprentissage | 1087727 | 202226036 | 144282254 | 0.0053788 | 0.0075389 |
+| 2023 | CY | Valorisation | 959131 | 202226036 | 144282254 | 0.0047429 | 0.0066476 |
+| 2023 | CY | Subventions Union Européenne | 3269194 | 202226036 | 144282254 | 0.0161660 | 0.0226583 |
+| 2023 | CY | Subventions de la région | 674703 | 202226036 | 144282254 | 0.0033364 | 0.0046763 |
 
 </details>
 
-    ## Warning: Removed 1 row containing missing values or values outside the scale range
-    ## (`geom_point()`).
-
 <img src="CY_files/figure-gfm/unnamed-chunk-3-1.png" width="672" />
 
-    ## Warning: Removed 1 row containing missing values or values outside the scale range
-    ## (`geom_point()`).
-
 <img src="CY_files/figure-gfm/unnamed-chunk-4-1.png" width="672" />
-
-    ## Warning: Removed 1 row containing missing values or values outside the scale range
-    ## (`geom_point()`).
 
 <img src="CY_files/figure-gfm/unnamed-chunk-5-1.png" width="672" />
